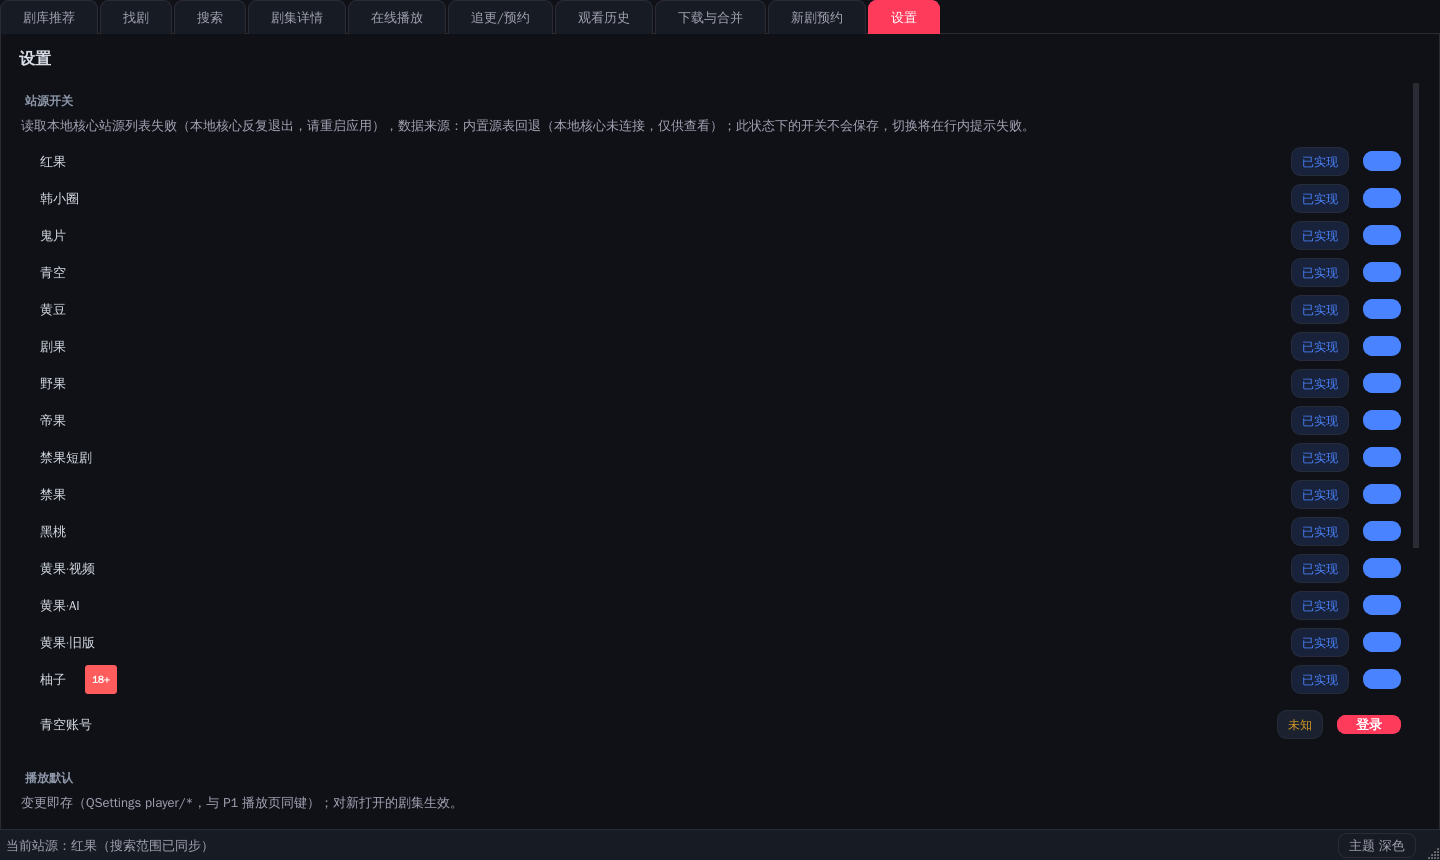
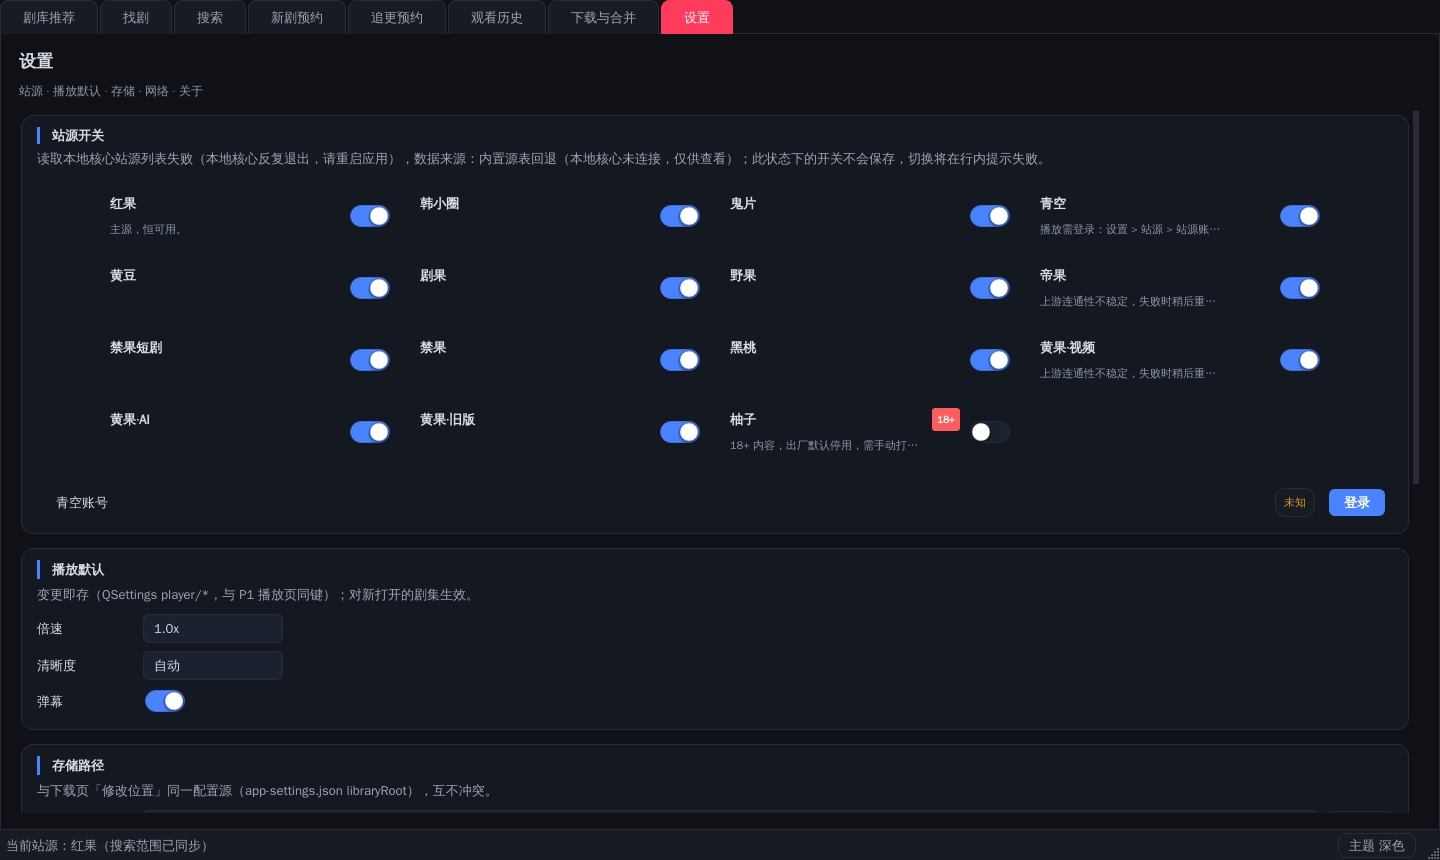
feat(settings): 设置页新增网络与下载分区
- 暴露本地核心既有的代理/并发协议（resourceSettings/saveResourceSettings），面板增加代理模式、地址、目录并发、请求间隔、下载并发与按站源分道下载六项。
- 核心本就按系统代理与环境变量自动路由全部上游请求，界面此前未提供入口，手动代理与限速只能改文件；现在保存即时生效并持久化在数据目录。
- core_client 新增两个封装方法，只发送显式给出的字段，校验失败原样回显核心中文信息。
- 涉及文件：settings_panel.py、core_client.py，另附离屏截图与既有验证图更新。

diff --git a/zhenguojian/app/zhenguojian/settings_panel.py b/zhenguojian/app/zhenguojian/settings_panel.py
@@ -1,5 +1,5 @@
 # -*- coding: utf-8 -*-
-"""S1 设置面板：站源开关 / 播放默认 / 存储路径 / 关于。
+"""S1 设置面板：站源开关 / 播放默认 / 存储路径 / 网络与下载 / 关于。
 
 对外契约（M1 挂载用）
 ====================
@@ -33,7 +33,8 @@ import os
 from PyQt5.QtCore import QTimer, Qt, pyqtSignal
 from PyQt5.QtWidgets import (QComboBox, QFileDialog, QFrame,
                              QHBoxLayout, QLabel, QLineEdit, QPushButton,
-                             QScrollArea, QSizePolicy, QVBoxLayout, QWidget)
+                             QScrollArea, QSizePolicy, QSpinBox, QVBoxLayout,
+                             QWidget)
 
 from . import tools, ui
 from .settings_widgets import GuoSwitch, SourceCard, SourceGrid
@@ -256,6 +257,7 @@ class SettingsPanel(QWidget):
         self._populate_sources()
         self._load_playback()
         self._load_paths()
+        self._load_network()
         self._refresh_about()
         self.refresh_qss()
 
@@ -338,6 +340,31 @@ class SettingsPanel(QWidget):
             "  border-radius: %(guo_radius)s; padding: 4px 10px;"
             "  color: %(guo_text)s; }"
             "QLineEdit[guoRole=\"pathBox\"]:read-only { color: %(guo_muted)s; }"
+            # 数字输入（网络与下载区）：与 pathBox 同描边口径，上下按钮自绘
+            "QSpinBox { background: %(guo_chip_bg)s;"
+            "  border: 1px solid %(guo_border)s;"
+            "  border-radius: %(guo_radius)s; padding: 4px 10px;"
+            "  color: %(guo_text)s; }"
+            "QSpinBox:hover, QSpinBox:focus { border-color: %(guo_accent)s; }"
+            "QSpinBox:disabled { color: %(disabled_text)s;"
+            "  background: %(surface2)s; border-color: %(disabled_border)s; }"
+            "QSpinBox::up-button, QSpinBox::down-button {"
+            "  subcontrol-origin: border; width: 18px;"
+            "  background: %(surface2)s; border: none; }"
+            "QSpinBox::up-button { subcontrol-position: top right;"
+            "  border-top-right-radius: %(guo_radius)s; }"
+            "QSpinBox::down-button { subcontrol-position: bottom right;"
+            "  border-bottom-right-radius: %(guo_radius)s; }"
+            "QSpinBox::up-button:hover, QSpinBox::down-button:hover {"
+            "  background: %(guo_chip_hover)s; }"
+            "QSpinBox::up-button:pressed, QSpinBox::down-button:pressed {"
+            "  background: %(guo_chip_pressed)s; }"
+            "QSpinBox::up-arrow { image: none; border-left: 4px solid transparent;"
+            "  border-right: 4px solid transparent;"
+            "  border-bottom: 5px solid %(guo_muted)s; width: 0; height: 0; }"
+            "QSpinBox::down-arrow { image: none; border-left: 4px solid transparent;"
+            "  border-right: 4px solid transparent;"
+            "  border-top: 5px solid %(guo_muted)s; width: 0; height: 0; }"
             "QPushButton[role=\"ghost\"] { background: transparent;"
             "  border: 1px solid %(guo_border)s; color: %(guo_muted)s;"
             "  border-radius: %(guo_radius)s; padding: 4px 12px; }"
@@ -381,7 +408,7 @@ class SettingsPanel(QWidget):
         title = QLabel("设置")
         title.setProperty("guoRole", "panelTitle")
         root.addWidget(title)
-        sub = QLabel("站源 · 播放默认 · 存储 · 关于")
+        sub = QLabel("站源 · 播放默认 · 存储 · 网络 · 关于")
         sub.setProperty("guoRole", "panelSub")
         root.addWidget(sub)
 
@@ -398,6 +425,7 @@ class SettingsPanel(QWidget):
         cl.addWidget(self._build_sources_section())
         cl.addWidget(self._build_playback_section())
         cl.addWidget(self._build_paths_section())
+        cl.addWidget(self._build_network_section())
         cl.addWidget(self._build_about_section())
         cl.addStretch(1)
         scroll.setWidget(content)
@@ -824,7 +852,160 @@ class SettingsPanel(QWidget):
         self._paths_hint.setText(message)
         self.libraryRootChanged.emit(target)
 
-    # ------------------------------------------------------------ ④ 关于
+    # ------------------------------------------------------------ ④ 网络与下载
+    _PROXY_MODES = ("auto", "direct", "manual")
+
+    def _build_network_section(self):
+        box, body, self._network_hint = self._section(
+            "s1_network", "网络与下载",
+            "代理与并发由本地核心统一执行（目录/取流/下载全部生效），保存即时生效；"
+            "「自动」模式跟随系统代理与环境变量。")
+        self.proxy_mode_combo = self._combo_row(body, "代理模式", "s1_proxymode")
+        self.proxy_mode_combo.addItems(["自动（跟随系统）", "直连", "手动"])
+        prow = QWidget()
+        pl = QHBoxLayout(prow)
+        pl.setContentsMargins(0, 2, 0, 2)
+        pl.setSpacing(10)
+        plab = QLabel("代理地址")
+        plab.setProperty("guoRole", "fieldLabel")
+        plab.setMinimumWidth(96)
+        pl.addWidget(plab)
+        self.proxy_url_edit = QLineEdit()
+        self.proxy_url_edit.setObjectName("s1_proxyurl")
+        self.proxy_url_edit.setProperty("guoRole", "pathBox")
+        self.proxy_url_edit.setPlaceholderText(
+            "http://127.0.0.1:7890 或 socks5://127.0.0.1:7891")
+        self.proxy_url_edit.setSizePolicy(QSizePolicy.Expanding, QSizePolicy.Fixed)
+        pl.addWidget(self.proxy_url_edit, 1)
+        pl.addStretch(1)
+        body.addWidget(prow)
+
+        self.catalog_spin = self._spin_row(body, "目录并发", "s1_catcon", 1, 6)
+        self.interval_spin = self._spin_row(body, "请求间隔", "s1_catgap", 0, 5000,
+                                            step=250)
+        self.download_spin = self._spin_row(body, "下载并发", "s1_dlcon", 1, 6)
+        brow = QWidget()
+        bl = QHBoxLayout(brow)
+        bl.setContentsMargins(0, 2, 0, 2)
+        bl.setSpacing(10)
+        blab = QLabel("按站源分道下载")
+        blab.setProperty("guoRole", "fieldLabel")
+        blab.setMinimumWidth(96)
+        bl.addWidget(blab)
+        self.bysource_switch = GuoSwitch()
+        self.bysource_switch.setObjectName("s1_bysource")
+        self.bysource_switch.setCursor(Qt.PointingHandCursor)
+        bl.addWidget(self.bysource_switch)
+        bl.addStretch(1)
+        body.addWidget(brow)
+
+        srow = QWidget()
+        sl = QHBoxLayout(srow)
+        sl.setContentsMargins(0, 6, 0, 2)
+        sl.setSpacing(10)
+        self._network_save = QPushButton("保存设置")
+        self._network_save.setObjectName("s1_netsave")
+        self._network_save.setProperty("role", "ghost")
+        self._network_save.setCursor(Qt.PointingHandCursor)
+        self._network_save.clicked.connect(self._on_save_network)
+        sl.addWidget(self._network_save)
+        self._network_status = QLabel("")
+        self._network_status.setProperty("guoRole", "rowError")
+        self._network_status.setWordWrap(True)
+        sl.addWidget(self._network_status, 1)
+        body.addWidget(srow)
+        return box
+
+    def _spin_row(self, body, label_text, object_name, lo, hi, step=1):
+        row = QWidget()
+        lay = QHBoxLayout(row)
+        lay.setContentsMargins(0, 2, 0, 2)
+        lay.setSpacing(10)
+        lab = QLabel(label_text)
+        lab.setProperty("guoRole", "fieldLabel")
+        lab.setMinimumWidth(96)
+        lay.addWidget(lab)
+        spin = QSpinBox()
+        spin.setObjectName(object_name)
+        spin.setRange(lo, hi)
+        spin.setSingleStep(step)
+        spin.setSuffix(" ms")
+        spin.setMinimumWidth(140)
+        lay.addWidget(spin)
+        lay.addStretch(1)
+        body.addWidget(row)
+        return spin
+
+    def _net_core(self):
+        core = self._resolve_core()
+        if core is not None and callable(getattr(core, "resource_settings", None)):
+            return core
+        return None
+
+    def _load_network(self):
+        core = self._net_core()
+        widgets = (self.proxy_mode_combo, self.proxy_url_edit, self.catalog_spin,
+                   self.interval_spin, self.download_spin, self.bysource_switch,
+                   self._network_save)
+        for w in widgets:
+            w.setEnabled(core is not None)
+        if core is None:
+            self._network_hint.setText(
+                "本地核心未连接，暂无法读取或保存网络设置；启动应用后此区可用。")
+            return
+        try:
+            settings = core.resource_settings() or {}
+        except Exception as exc:  # pragma: no cover
+            self._network_hint.setText("读取网络设置失败：%s" % exc)
+            return
+        mode = str(settings.get("proxyMode", "auto"))
+        idx = self._PROXY_MODES.index(mode) if mode in self._PROXY_MODES else 0
+        for w in widgets[:6]:
+            w.blockSignals(True)
+        self.proxy_mode_combo.setCurrentIndex(idx)
+        self.proxy_url_edit.setText(str(settings.get("proxyUrl", "") or ""))
+        self.catalog_spin.setValue(int(settings.get("catalogConcurrency", 3)))
+        self.interval_spin.setValue(int(settings.get("catalogIntervalMs", 250)))
+        self.catalog_spin.setSuffix(" 路")
+        self.download_spin.setSuffix(" 路")
+        self.interval_spin.setSuffix(" 毫秒")
+        self.download_spin.setValue(int(settings.get("downloadConcurrency", 2)))
+        self.bysource_switch.setChecked(bool(settings.get("downloadBySource", False)))
+        for w in widgets[:6]:
+            w.blockSignals(False)
+        self.bysource_switch.refresh_state()
+        self._network_status.setText("")
+        warning = str(settings.get("warning", "") or "")
+        status = str(settings.get("systemProxyStatus", "") or "")
+        if warning:
+            self._network_status.setText(warning)
+        if status:
+            self._network_save.setToolTip("代理状态：%s" % status)
+
+    def _on_save_network(self):
+        core = self._net_core()
+        if core is None or not callable(getattr(core, "save_resource_settings", None)):
+            self._network_status.setText("本地核心未连接，设置未保存。")
+            return
+        try:
+            saved = core.save_resource_settings(
+                proxy_mode=self._PROXY_MODES[self.proxy_mode_combo.currentIndex()],
+                proxy_url=self.proxy_url_edit.text().strip(),
+                catalog_concurrency=self.catalog_spin.value(),
+                catalog_interval_ms=self.interval_spin.value(),
+                download_concurrency=self.download_spin.value(),
+                download_by_source=self.bysource_switch.isChecked())
+        except Exception as exc:
+            # 核心校验失败（并发/间隔/地址格式）：中文信息原样回显，原设置不变。
+            self._network_status.setText(str(exc))
+            return
+        self._network_status.setText("")
+        if saved:
+            self.proxy_url_edit.setText(str(saved.get("proxyUrl", "") or ""))
+        self._network_hint.setText("已保存并即时生效（持久化在数据目录 "
+                                   "resource-settings.json）。")
+
+    # ------------------------------------------------------------ ⑤ 关于
     def _build_about_section(self):
         box, body, _ = self._section(
             "s1_about", "关于", "真果鉴 · 红果短剧聚合客户端（站源适配参考 guoapp）。")

diff --git a/zhenguojian/app/zhenguojian/core_client.py b/zhenguojian/app/zhenguojian/core_client.py
@@ -380,6 +380,38 @@ class CoreClient:
         """开关某个站源；核心写入 data 目录 source_prefs.json 后立即生效。"""
         return self.call("setSourceEnabled", slug=slug, enabled=bool(enabled), timeout=15.0)
 
+    def resource_settings(self):
+        """读取核心的网络与下载设置（行协议 resourceSettings）。
+
+        返回 dict：proxyMode(auto|direct|manual)、proxyUrl、
+        catalogConcurrency、catalogIntervalMs、downloadConcurrency、
+        downloadBySource、warning、systemProxyStatus。设置由核心持久化在
+        data 目录 resource-settings.json，改动即时对取流/目录/下载生效。"""
+        return self.call("resourceSettings", timeout=10.0)
+
+    def save_resource_settings(self, proxy_mode=None, proxy_url=None,
+                               catalog_concurrency=None, catalog_interval_ms=None,
+                               download_concurrency=None, download_by_source=None):
+        """保存网络与下载设置（行协议 saveResourceSettings，核心侧校验）。
+
+        proxyUrl 支持 http/https/socks5/socks5h 前缀（manual 模式必填有效
+        地址）；并发 1-6、间隔 0-5000 毫秒。只发送显式给出的字段，其余保持
+        当前值。校验失败抛 CoreError（核心中文信息，调用方展示即可）。"""
+        current = self.resource_settings() or {}
+        settings = {
+            "proxyMode": proxy_mode if proxy_mode is not None else current.get("proxyMode", "auto"),
+            "proxyUrl": proxy_url if proxy_url is not None else current.get("proxyUrl", ""),
+            "catalogConcurrency": int(catalog_concurrency if catalog_concurrency is not None
+                                      else current.get("catalogConcurrency", 3)),
+            "catalogIntervalMs": int(catalog_interval_ms if catalog_interval_ms is not None
+                                     else current.get("catalogIntervalMs", 250)),
+            "downloadConcurrency": int(download_concurrency if download_concurrency is not None
+                                       else current.get("downloadConcurrency", 2)),
+            "downloadBySource": bool(download_by_source if download_by_source is not None
+                                     else current.get("downloadBySource", False)),
+        }
+        return self.call("saveResourceSettings", settings=settings, timeout=15.0)
+
     def sorani_account(self, command="", identifier="", password="", captcha_id="", track=None):
         """青空次元账号（T1，行协议 soraniAccount / provider_sorani_account.go）。
 
